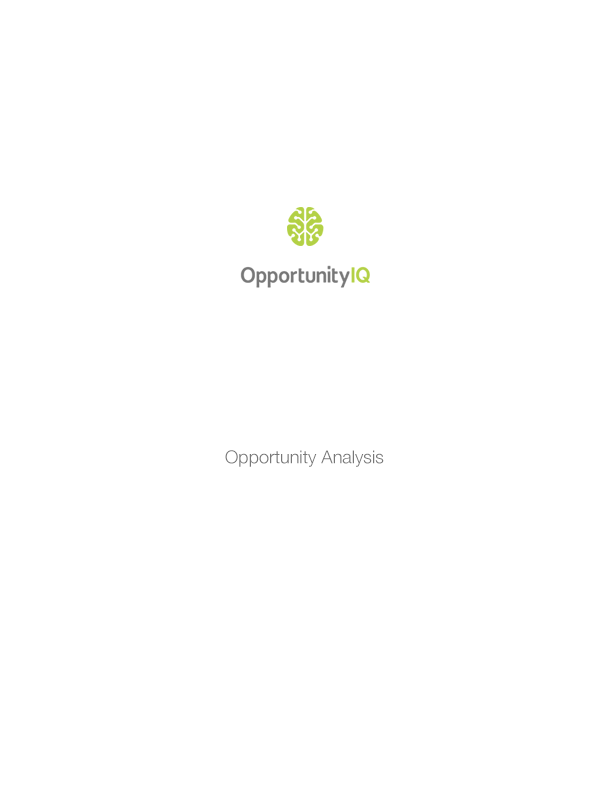
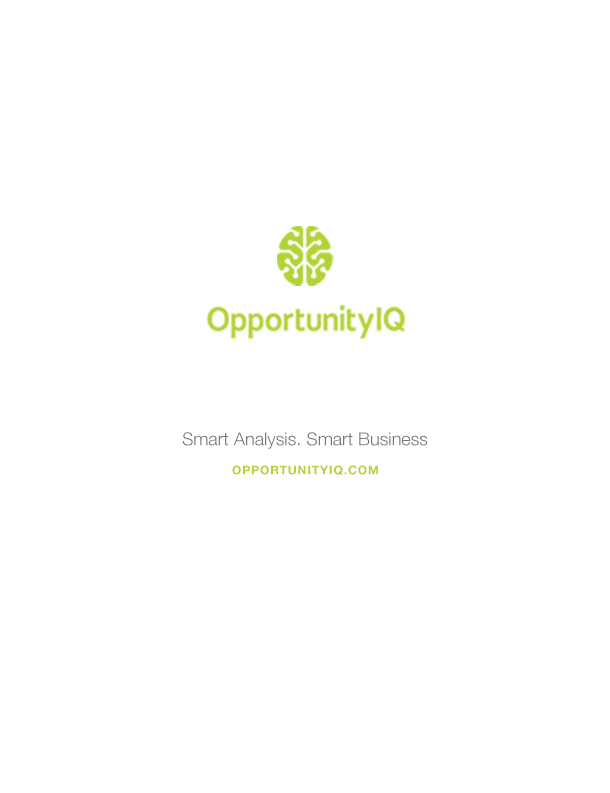
update pdf

Changed region(s): [[0.3426, 0.2427, 0.6852, 0.4248], [0.3115, 0.5461, 0.7164, 0.6068]]

diff --git a/routes/lib/pdf.js b/routes/lib/pdf.js
@@ -323,6 +323,7 @@ var text = req.body.html;
 	text += ".section>.body{padding-left:50px !important;margin-bottom:0px !important;padding-bottom:2px !important;}";
 	text += ".section .body .t{padding-bottom:2px !important; margin-bottom:0px !important;}";
 	text += ".first-page {position: relative; } ";
+	text += ".last-page img{vertical-align:middle;}";
 	text += ".date {position: absolute; width: 100%; text-align: center; color: white; top: 525px !important; font-size: 17px; }";
 	text += ".first-page .analysis-header{color:#6e6e6e !important;position:absolute;width:100%; font-family: museo !important;top:400px !important; }";
 	text += ".content-header{display: none !important;}";
